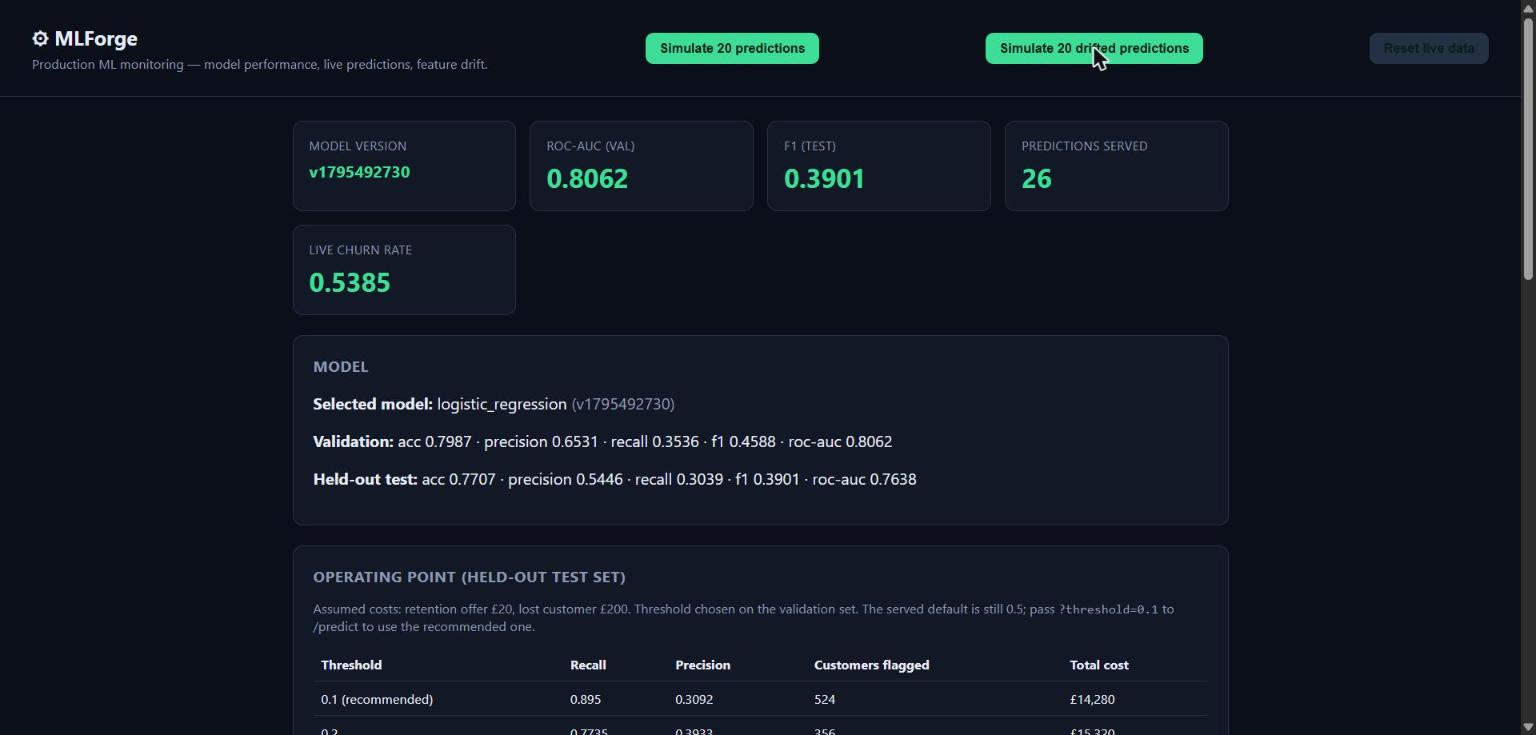
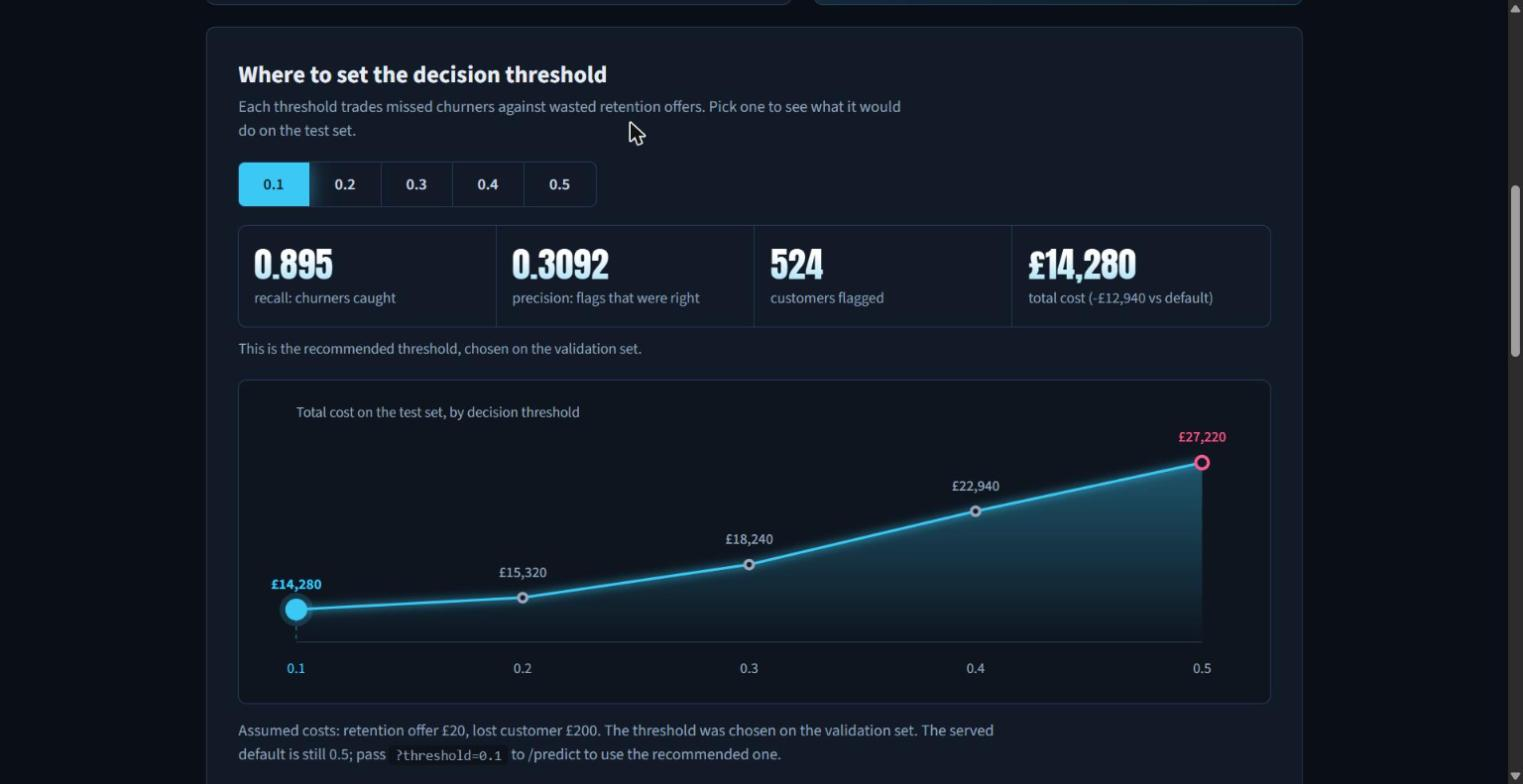
Update README screenshots for the new design

diff --git a/README.md b/README.md
@@ -11,10 +11,10 @@ Customer churn prediction with the parts that usually get skipped: data validati
 
 ## Screenshots
 
-![MLForge dashboard with model metrics and the cost-based operating point table](docs/dashboard.png)
+![MLForge decision-threshold picker with the cost curve and recommended operating point](docs/dashboard.png)
 *Model metrics, live prediction counters and the cost table behind the recommended 0.1 threshold.*
 
-![MLForge feature drift table with three drifted features flagged](docs/drift.png)
+![MLForge feature drift bars with the drifted features flagged](docs/drift.png)
 *After "Simulate 20 drifted predictions": `monthly_charge`, `num_support_tickets` and `late_payments_last_year` are flagged as drifted.*
 
 ## About the numbers
